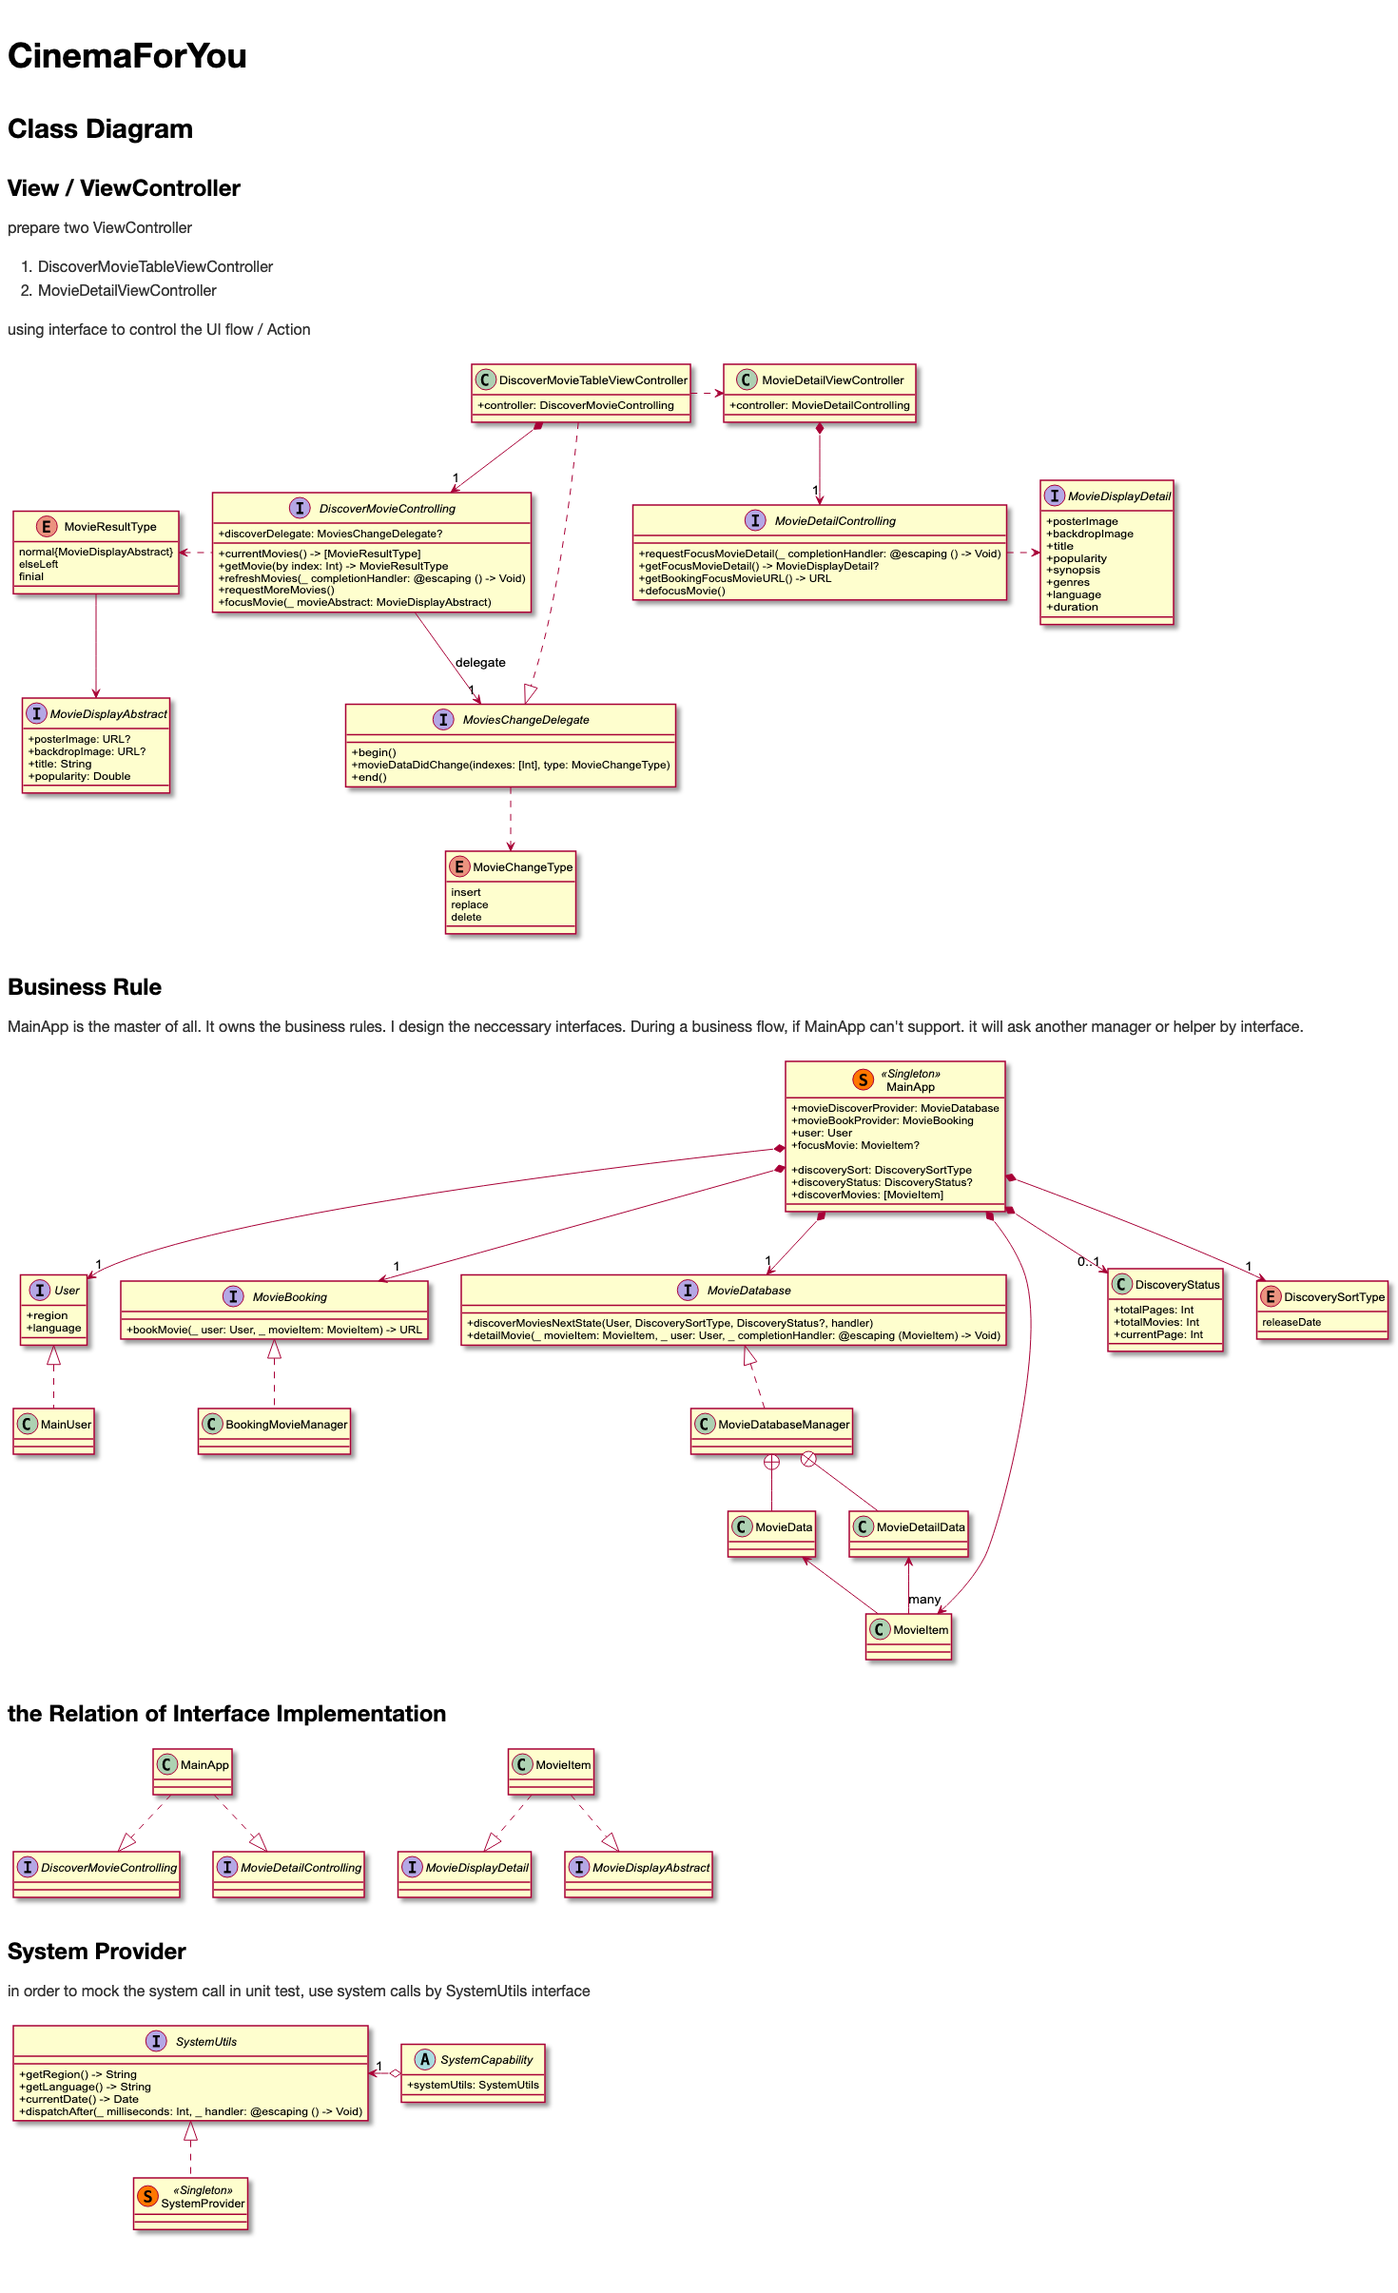
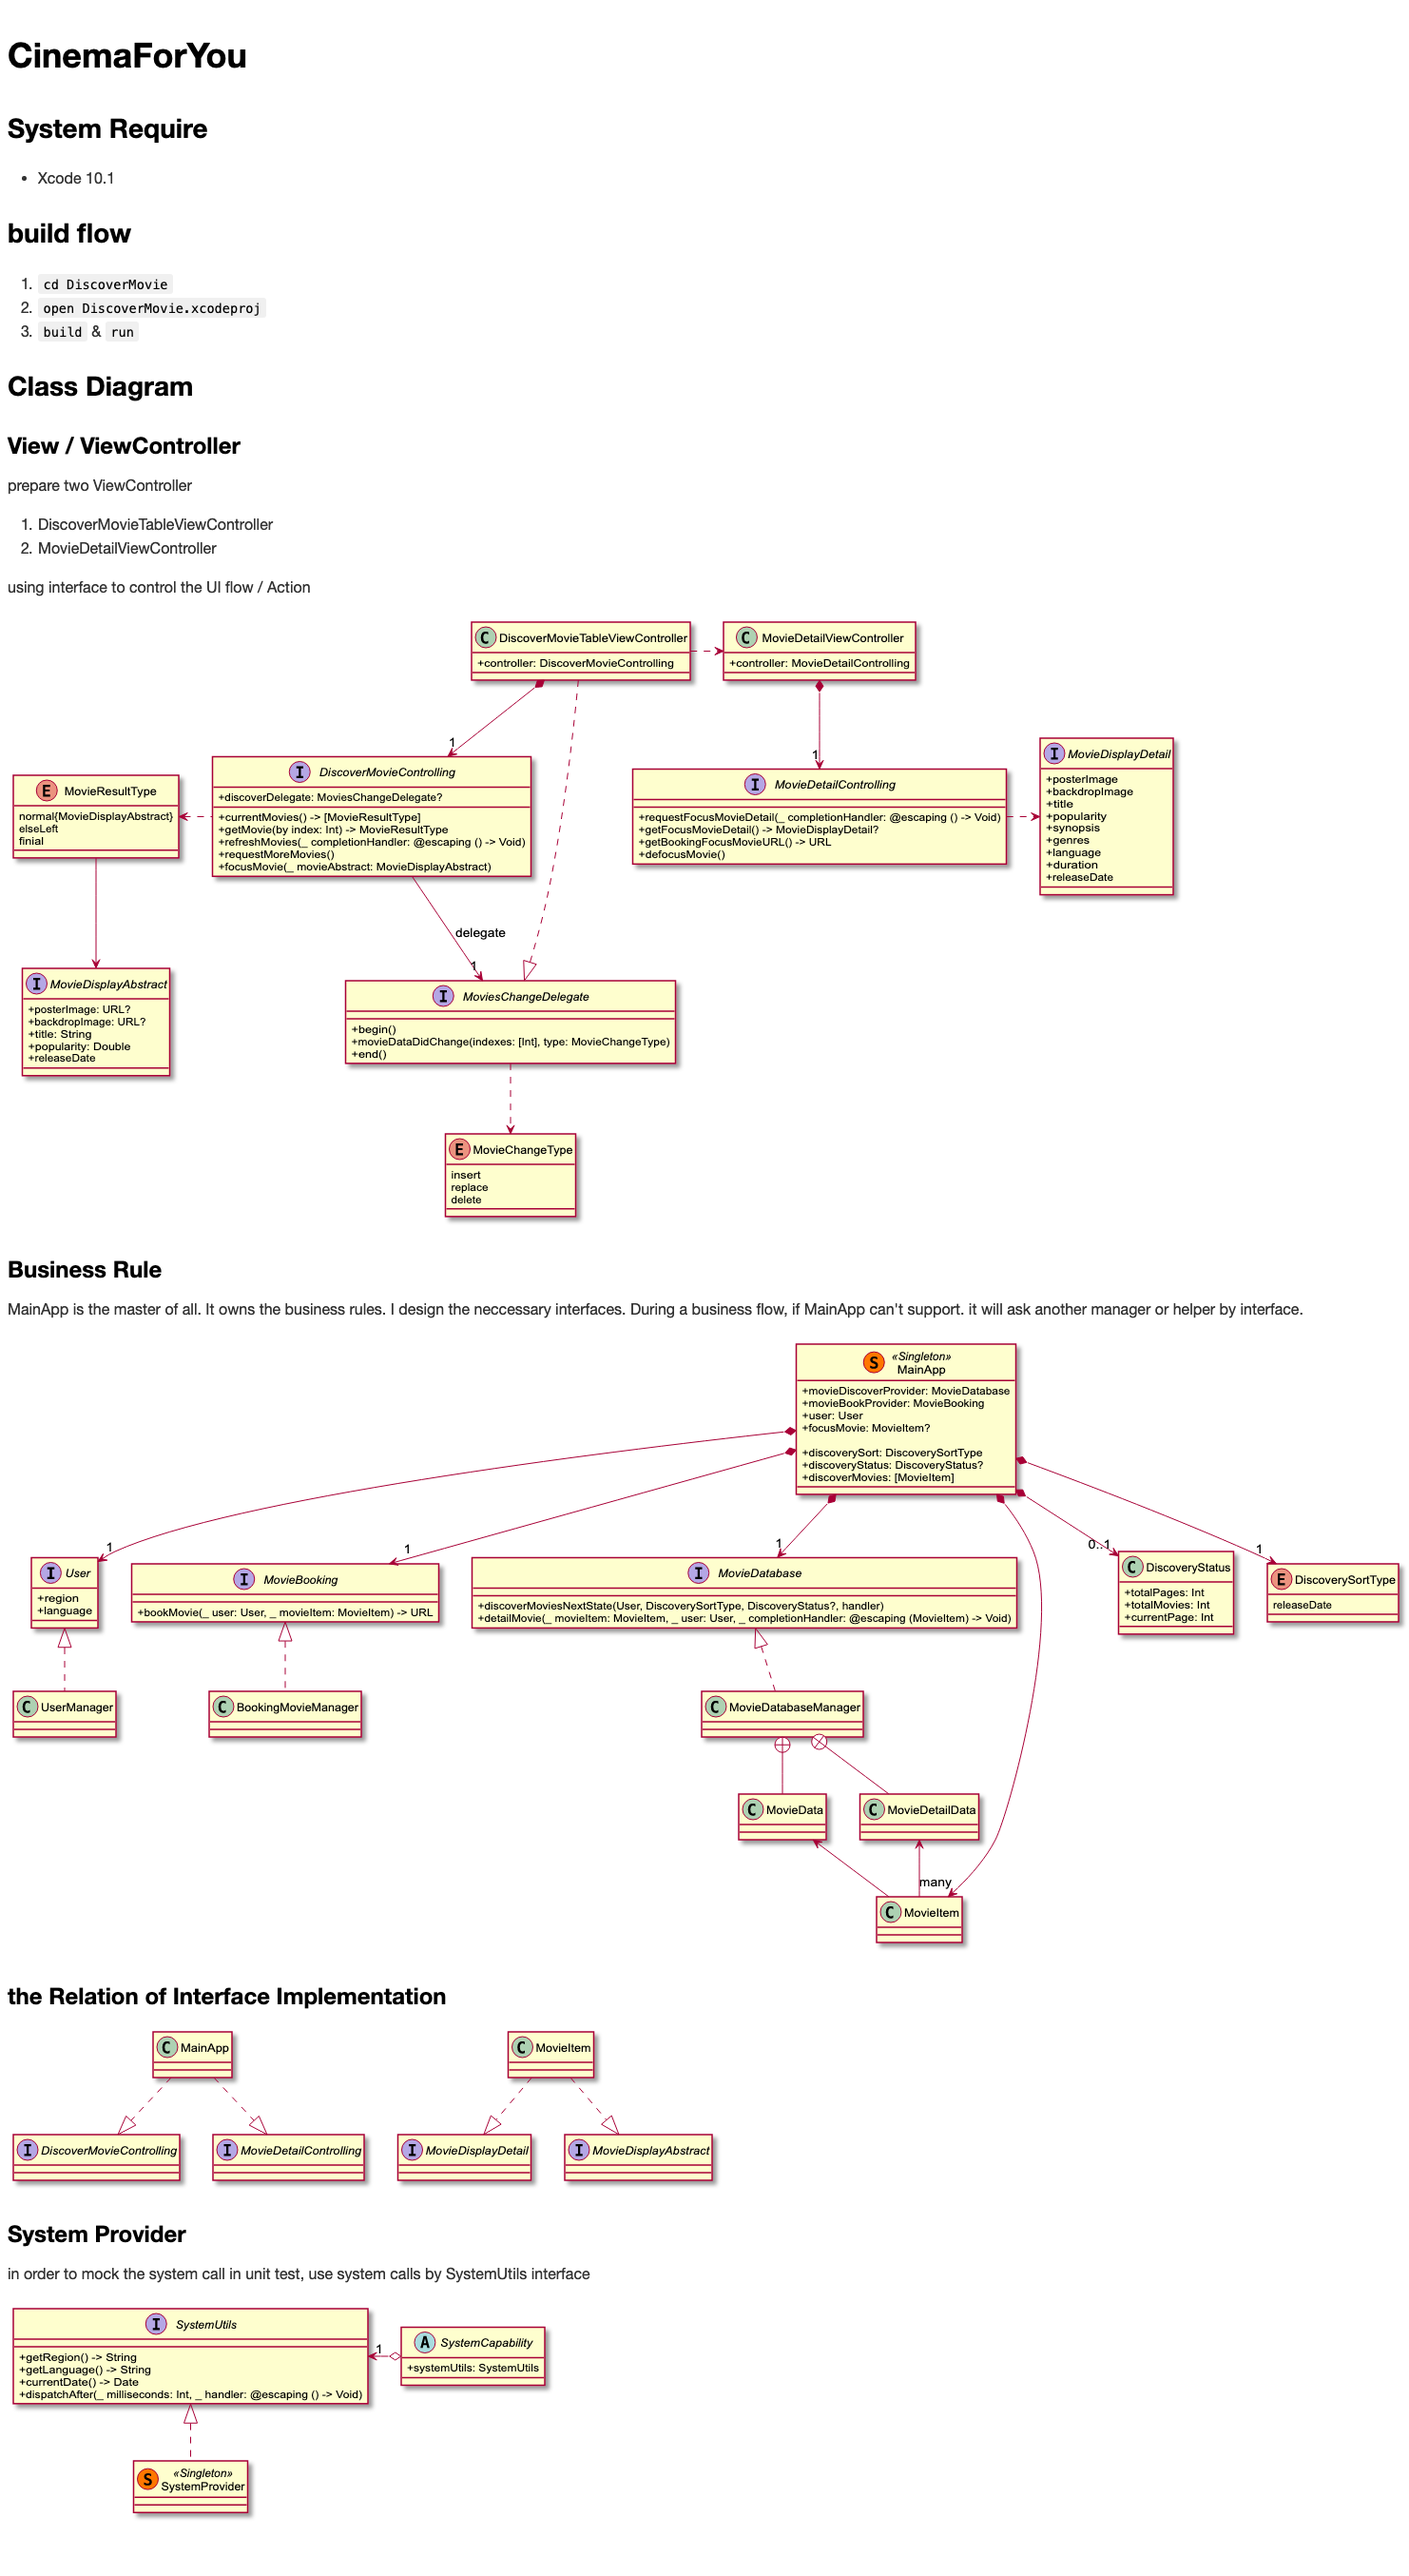
add system requirement and build flow into read me

diff --git a/README.md b/README.md
@@ -1,5 +1,13 @@
 # CinemaForYou
 
+## System Require
+- Xcode 10.1
+
+## build flow
+1. `cd DiscoverMovie`
+2. `open DiscoverMovie.xcodeproj`
+3. `build` & `run`
+
 ## Class Diagram
 
 ### View / ViewController
@@ -36,6 +44,7 @@ interface MovieDisplayAbstract {
   +backdropImage: URL?
   +title: String
   +popularity: Double
+  +releaseDate
 }
 
 enum MovieChangeType {
@@ -70,6 +79,7 @@ interface MovieDisplayDetail {
   +genres
   +language
   +duration
+  +releaseDate
 }
 
 DiscoverMovieTableViewController .right.> MovieDetailViewController
@@ -141,11 +151,11 @@ class MovieDatabaseManager
 class MovieData
 class MovieDetailData
 class BookingMovieManager
-class MainUser
+class UserManager
 
 MovieDatabaseManager .up.|> MovieDatabase
 BookingMovieManager .up.|> MovieBooking
-MainUser .up.|> User
+UserManager .up.|> User
 MovieDatabaseManager +-- MovieData
 MovieDatabaseManager +-- MovieDetailData
 MovieData <-- MovieItem
